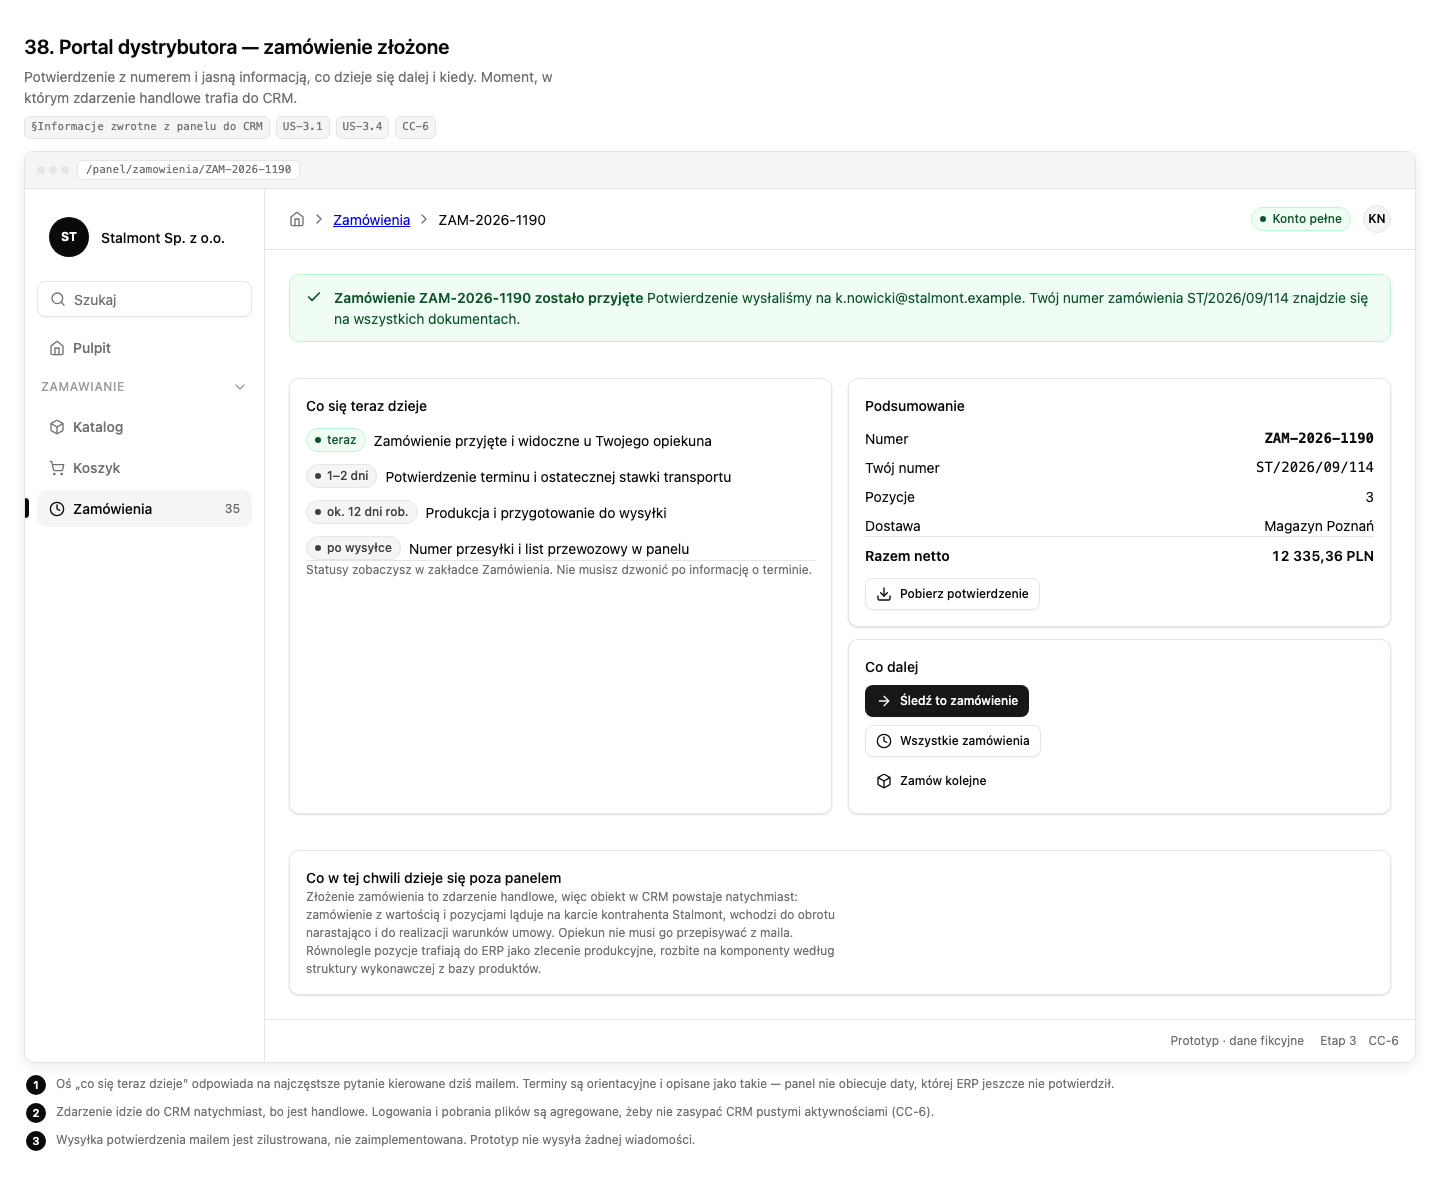
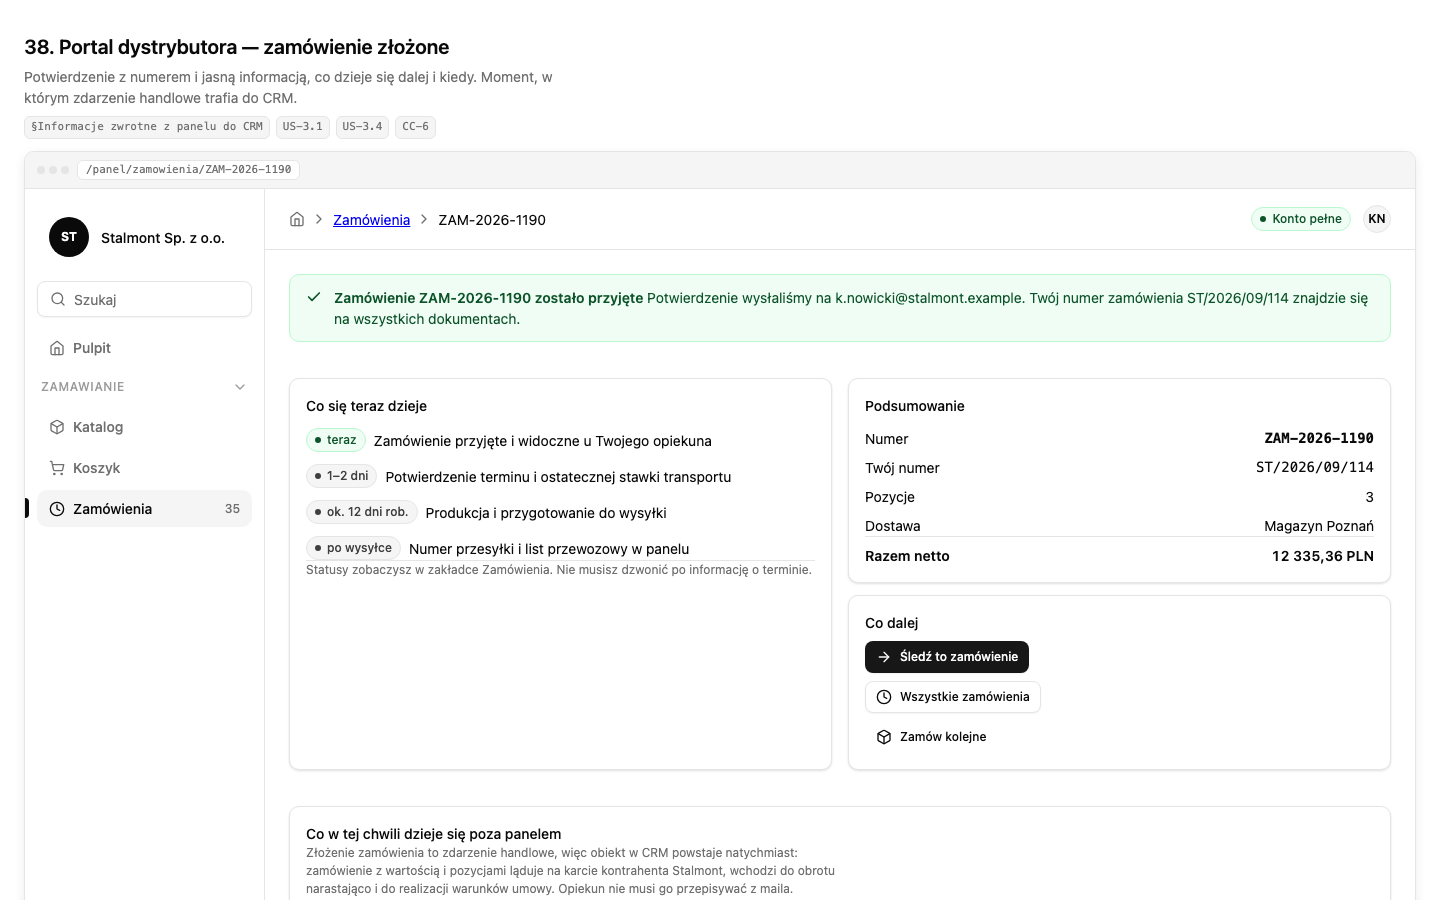
docs: prototyp Anter - usun przycisk 'Pobierz potwierdzenie' z ekranu 38
Karta 'Podsumowanie' na ekranie zlozonego zamowienia zostaje sama liczba.
Potwierdzenie i tak idzie mailem (komunikat u gory) oraz jest dostepne
w dokumentach zamowienia (ekran 39), wiec przycisk dublowal dwie inne
drogi do tego samego pliku.

diff --git a/.ai/prototypes/anter-system-etapy/index.html b/.ai/prototypes/anter-system-etapy/index.html
@@ -4702,7 +4702,6 @@ ul. Przemysłowa 44
                   <div class="separator"></div>
                   <div class="row between"><span class="strong">Razem netto</span><span class="num strong">12 335,36 PLN</span></div>
                 </div>
-                <button class="btn btn-outline btn-sm"><svg><use href="#ic-download"/></svg> Pobierz potwierdzenie</button>
               </div>
 
               <div class="card card-pad stack-2">
